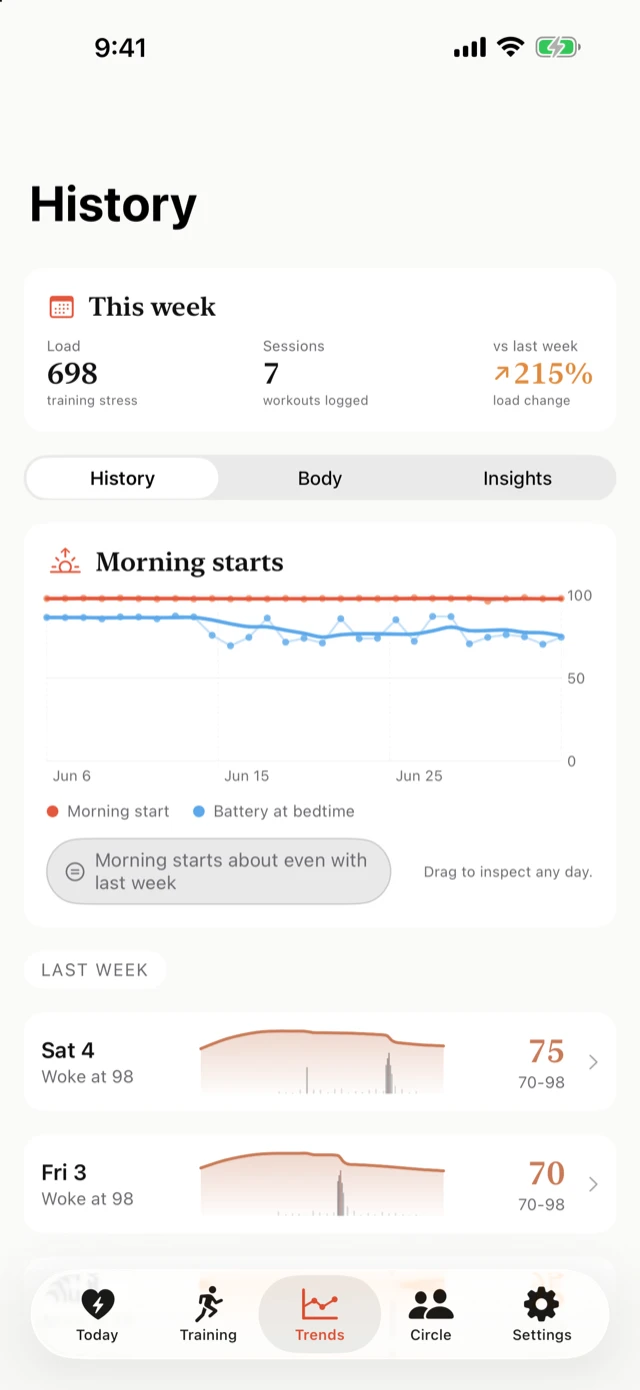
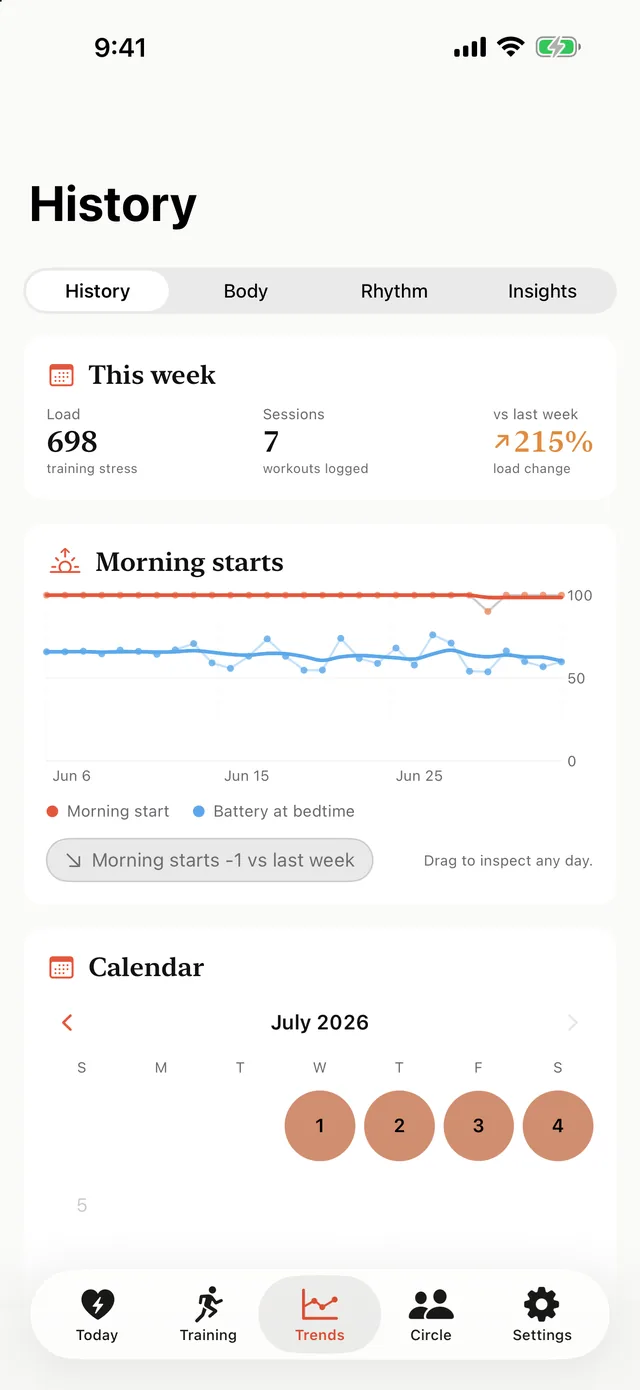
Refresh every screenshot on the current build, and show the body clock
All sixteen images were recaptured from the 1.7 build. The watch shots were
the ones that needed it most: the site was still showing the three-page watch
app, which was replaced by a five-page one in September, so those pictures had
stopped describing the product.

The phone shots also carry a fix worth naming, because it was visible in every
one of them. Each skin printed its header date from the wall clock while the
data underneath came from the app's own clock. The two agree in normal use, so
nothing looked wrong until the demo clock was frozen for a capture - and then
the header read one date above a chart of another. The app has one clock now,
and the shots are internally consistent.

New on the page: the circadian dial, under "Your own body clock, measured".
Vigor works this out from the wearer's own sleep and heart rate rather than
assuming a standard rhythm, which is the distinction the caption is making.

The watch pictures changed for a second reason. A toolbar button used to float
over the bottom centre of the watch screen, where it covered the charged and
drained figures, the last bar of the readiness breakdown, and part of the
sample-data label. It has moved up beside the clock, and the day chart, which
had been squeezed into whatever space the list below it left over, now gets a
guaranteed share of the screen.

diff --git a/index.html b/index.html
@@ -142,12 +142,13 @@
 <section>
   <div class="wrap">
     <h2>See it in action</h2>
-    <p class="lede">What charged and drained you, what tonight's sleep gives back, and the patterns behind your good and bad days.</p>
+    <p class="lede">What charged and drained you, what tonight's sleep gives back, the patterns behind your good and bad days, and the daily rhythm Vigor measures on you rather than assuming.</p>
     <div class="shots">
       <figure><img src="assets/screenshots/drivers.webp" alt="Itemized list of what charged and drained the score" width="640" height="1390" loading="lazy"><figcaption>What charged you, what drained you</figcaption></figure>
       <figure><img src="assets/screenshots/projection.webp" alt="Sleep projection screen" width="640" height="1390" loading="lazy"><figcaption>See what tonight's sleep gives back</figcaption></figure>
       <figure><img src="assets/screenshots/history.webp" alt="30-day history with trend line" width="640" height="1390" loading="lazy"><figcaption>30 days of history, with a trend line</figcaption></figure>
       <figure><img src="assets/screenshots/insights.webp" alt="Pattern insights computed from your history" width="640" height="1390" loading="lazy"><figcaption>Know your patterns</figcaption></figure>
+      <figure><img src="assets/screenshots/rhythm.webp" alt="Circadian clock dial showing measured sleep, deep-sleep and heart-rate markers around a 24-hour ring" width="640" height="1390" loading="lazy"><figcaption>Your own body clock, measured</figcaption></figure>
     </div>
   </div>
 </section>
